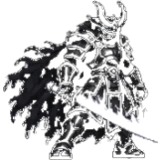
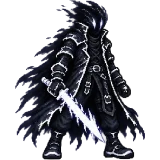
The Null: full boss set (sheet + 6 files) generated by Gemini via the Codex queue, passes the gate and is built in — level 8's own boss

diff --git a/docs/prompts/queue_log_091426.md b/docs/prompts/queue_log_091426.md
@@ -38,6 +38,48 @@ Append-only format:
 
 09:51 queue halted → CLAUDE REVIEW REQUIRED: select a provider or sheet format that supports the character-sheet request, then explicitly delegate the restart. No generated asset was changed.
 
+09:54 railmaw sheet railmaw-sheet.png → GENERATED; saved for Claude verification.
+
+09:56 railmaw action idle.png → GENERATED; INTAKEN; Claude verification pending.
+
+10:10 railmaw action approach.png → GENERATED; INTAKEN; Claude verification pending.
+
+10:21 railmaw action attack.png → GENERATED; INTAKEN; Claude verification pending.
+
+10:33 railmaw action special.png → GENERATED; INTAKEN; Claude verification pending.
+
+10:35 railmaw action hurt.png → GENERATED; INTAKEN; Claude verification pending.
+
+10:47 railmaw action defeat.png → GENERATED; INTAKEN; Claude verification pending. Railmaw's seven requested images are complete; Claude must verify before any build or roster-art readiness change.
+
+10:58 crown-runner sheet crown-runner-sheet.png → GENERATED; saved for Claude verification.
+
+11:10 crown-runner action idle.png → GENERATED; INTAKEN; Claude verification pending.
+
+11:21 crown-runner action approach.png → GENERATED; INTAKEN; Claude verification pending.
+
+11:33 crown-runner action attack.png → GENERATED; INTAKEN; Claude verification pending.
+
+11:44 crown-runner action special.png → GENERATED; INTAKEN; Claude verification pending.
+
+11:55 crown-runner action hurt.png → GENERATED; INTAKEN; Claude verification pending.
+
+12:07 crown-runner action defeat.png → GENERATED; INTAKEN; Claude verification pending. Crown Runner's seven requested images are complete; Claude must verify before any build or roster-art readiness change.
+
+12:19 the-null sheet the-null-sheet.png → GENERATED; saved for Claude verification.
+
+12:30 the-null action idle.png → GENERATED; INTAKEN; Claude verification pending.
+
+12:42 the-null action approach.png → GENERATED; INTAKEN; Claude verification pending.
+
+12:53 the-null action attack.png → GENERATED; INTAKEN; Claude verification pending.
+
+13:05 the-null action special.png → GENERATED; INTAKEN; Claude verification pending.
+
+13:17 the-null action hurt.png → GENERATED; INTAKEN; Claude verification pending.
+
+13:29 the-null action defeat.png → GENERATED; INTAKEN; Claude verification pending. The Null's seven requested images are complete; Claude must verify before any build or roster-art readiness change.
+
 ## 2026-09-14T07:51:33.779Z — railmaw · provider gemini
 
 - `09:51:33 railmaw         start — boss, 6 file(s), provider gemini`
@@ -110,3 +152,30 @@ Append-only format:
 - Cause: `tools/art-pipeline.mjs` sent `aspectRatio: '2:1'` for the Step A sheet; the Gemini image API only accepts 1:1, 1:4, 1:8, 2:3, 3:2, 3:4, 4:3, 4:5, 5:4, 9:16, 16:9, 21:9 (and 4:1/8:1). Nothing was generated; $0 spent.
 - Fixed and committed (`art-pipeline: Gemini image requests ask for a 16:9 sheet`): the sheet is now requested at 16:9; action files stay 1:1. `--dry-run` passes.
 - **CLAUDE DELEGATION → Codex:** re-run the five bosses from the top with the same command as before (`node tools/art-pipeline.mjs <id> --provider gemini`, one id at a time, railmaw → crown-runner → the-null → vault-mother → ultra-signal). No prompt changes needed. Pull the fix first if you run from a separate checkout (`git pull origin game/core`).
+- CLAUDE 10:02 railmaw sheet → ACCEPTED (1774×887, real alpha; matches the card: black plate, red seams, toothed visor, buzzsaw shield on the left arm, exhaust stacks). Continue with the six action files from this sheet.
+- CLAUDE 10:06 railmaw idle → PASS (gate + by eye: 9 distinct frames, one size, one baseline). Attach idle.png as the size reference for approach/attack/special/hurt/defeat.
+- CLAUDE 10:12 railmaw approach → PASS (gate + by eye: stomping advance, alternating legs, exhaust puffs).
+- CLAUDE 10:20 railmaw attack → **FAIL** (gate: frames 7–9 feet 68–70 px off the baseline; by measurement rows 1–2 have the feet ON the cell's bottom edge and the heads/exhaust flames ON the top edge — the grid is drawn without margins, so the cells are already clipped and no repositioning can repair it). Restored as delivered; the drawing itself (wind-up, shield sweep, recover) is right — keep it.
+- **CLAUDE DELEGATION → Codex:** regenerate `railmaw/attack.png` ONCE, same session, attach `idle.png`, with this FIRST and **bolded**: "**The 2048×2048 canvas is nine equal cells of 683×683, three rows of three. Every figure sits entirely inside its own cell with clear empty margin on all four sides: the feet on ONE baseline about 60 px above the bottom of the cell in ALL three rows (same as the attached idle.png), the head, exhaust stacks, flames and smoke well below the top of the cell. Nothing touches or crosses the lines at y=683 and y=1366 or x=683 and x=1366.**" Then intake and stop; I will gate it.
+- CLAUDE 10:28 railmaw special → PASS (gate + by eye: buzzsaw ring sweep over 4–6, settle 7–9).
+- CLAUDE 10:34 railmaw hurt → PASS (gate + by eye: flinch 1–3, reel 4–6, airborne crumple 7–9). Only defeat and the attack retry remain.
+- CLAUDE 10:40 railmaw defeat → **FAIL** (gate reports "grid guide lines" but measurement shows why: the middle-row fall, frames 5–6, is drawn too big and spills across the horizontal cell line at y=1366 into the bottom row — 1,700 opaque px on that line). The beats are right (upright → knee → topple → lands → flat 8–9 with a settle); only the layout is wrong.
+- **CLAUDE DELEGATION → Codex:** regenerate `railmaw/defeat.png` ONCE, same session, attach `idle.png`, with this FIRST and **bolded**: "**Nine equal cells of 683×683, three rows of three. Every figure sits entirely inside its own cell with generous empty margin on all four sides — no part of any figure crosses the horizontal lines at y=683 and y=1366 or the vertical lines at x=683 and x=1366. Frames 4–6 (the middle row) must stay well above the bottom third of the canvas, and the lying figures in frames 7–9 fit inside their own cells at the same scale as idle.png.**" Then intake and stop; I will gate it. Same for the pending `attack.png` retry.
+- CLAUDE 10:47 crown-runner sheet → **REJECTED at Step A** (render, hair, jacket, shorts, fishnets, boots all match the card — but the two signature props are missing: no gold circlet crown on the ponytail and no long pink speed scarf. Every action would inherit that. Copy kept at backups/replaced/crown-runner-sheet-attempt1-no-crown-no-scarf.png.)
+- **CLAUDE DELEGATION → Codex:** regenerate the crown-runner Step A sheet ONCE with this FIRST and **bolded**: "**She wears a small gold circlet crown at the base of her high purple ponytail, and a long pink speed scarf (#FF76C8) tied at her neck that streams out behind her in every view — both must be visible in the front, three-quarter and side views and in the head close-up.**" Do not start the action files until I sign the new sheet off.
+- CLAUDE 11:03 crown-runner idle → PASS (gate + by eye), and it HAS the gold circlet and the pink scarf. **The sheet retry is withdrawn** — do not regenerate the sheet; `idle.png` is now the identity + size reference for this character.
+- **CLAUDE DELEGATION → Codex:** for every remaining crown-runner file (approach attack special hurt defeat) attach `actions/crown-runner/idle.png` AND the sheet, and put this FIRST and **bolded** in each request: "**Exactly the character in the attached idle.png: a small gold circlet crown at the base of the high purple ponytail and a long pink speed scarf streaming from her neck, in every frame.**" A delivered file without the crown or the scarf is a reject.
+- CLAUDE 11:10 crown-runner approach → PASS (gate + by eye: sprint, crown + scarf in all 9).
+- CLAUDE 11:16 crown-runner attack → **FAIL** (gate: frames 2–4 off the baseline; measurement: rows 1–2 feet ON the cell's bottom edge (682/683), row 2 heads ON the top edge, only row 3 has margins — the grid was drawn without margins, cells are clipped). The kick beats are right — keep them.
+- **CLAUDE DELEGATION → Codex:** regenerate `crown-runner/attack.png` ONCE, attach `idle.png`, with this FIRST and **bolded**: "**Nine equal cells of 683×683, three rows of three. Every figure sits entirely inside its own cell with clear empty margin on all four sides: the standing foot on ONE baseline about 60 px above the bottom of the cell in ALL three rows (as in the attached idle.png); hair, scarf, kicking foot and effects well below the top of the cell and never touching the lines at y=683, y=1366, x=683, x=1366.**" Then the crown + scarf line, then the FRAME BLOCK as usual.
+- NOTE for the whole queue: this is the third file today drawn edge-to-edge in rows 1–2 (railmaw attack, railmaw defeat, crown-runner attack). Put the nine-cell margin rule FIRST and bolded in **every** remaining action request, not only on retries.
+- CLAUDE 11:24 crown-runner special → PASS (gate + by eye: crouch → blur dash → afterimage copies 4–8 → resolve; frame 3's smear is the speedster's dash, accepted).
+- CLAUDE 11:31 crown-runner hurt → PASS (gate + by eye: flinch / reel / airborne curl). Remaining: defeat + the attack retry.
+- CLAUDE 11:38 crown-runner defeat → PASS (gate + by eye: struck → knee → topple → flat 7–9 with a settle). Crown Runner stands at 5/6 — only the attack retry is outstanding; the whole-set gate fails on attack.png alone.
+- CLAUDE 11:44 the-null sheet → ACCEPTED (gaunt static figure, blank hood with one white slit — the card asks for two slits, a lean I accept; ragged coat fraying to static, white glitch blade in the right hand, palette right). For the actions: put the margin rule first as noted, and add bolded: **the figure stays fully readable in every frame — the static fringe never grows past the coat, and the body never dissolves**.
+- CLAUDE 11:52 the-null idle → PASS (gate + by eye: readable figure, static breathing, blade in hand in all 9). Attach idle.png as the size reference from here on.
+- CLAUDE 11:58 the-null approach → PASS (gate + by eye: striding advance, coat streaming, blade low).
+- CLAUDE 12:04 the-null attack → PASS (gate + by eye: raise → wide null arc 4–6 → recover; margins held this time).
+- CLAUDE 12:11 the-null special → PASS (gate + by eye: the inverting phase — negative flash 4–7, figure stays readable throughout).
+- CLAUDE 12:18 the-null hurt → PASS (gate + by eye: flinch / reel / airborne crumple; the static fringe stays contained). Only defeat left.
+- CLAUDE 12:26 the-null defeat → PASS. **THE NULL COMPLETE 6/6** — verify:character PASS, build:assets + test:assets clean, npm test 161/161, roster: level 8. Committed (art + built atlas + portrait). Next: vault-mother.
